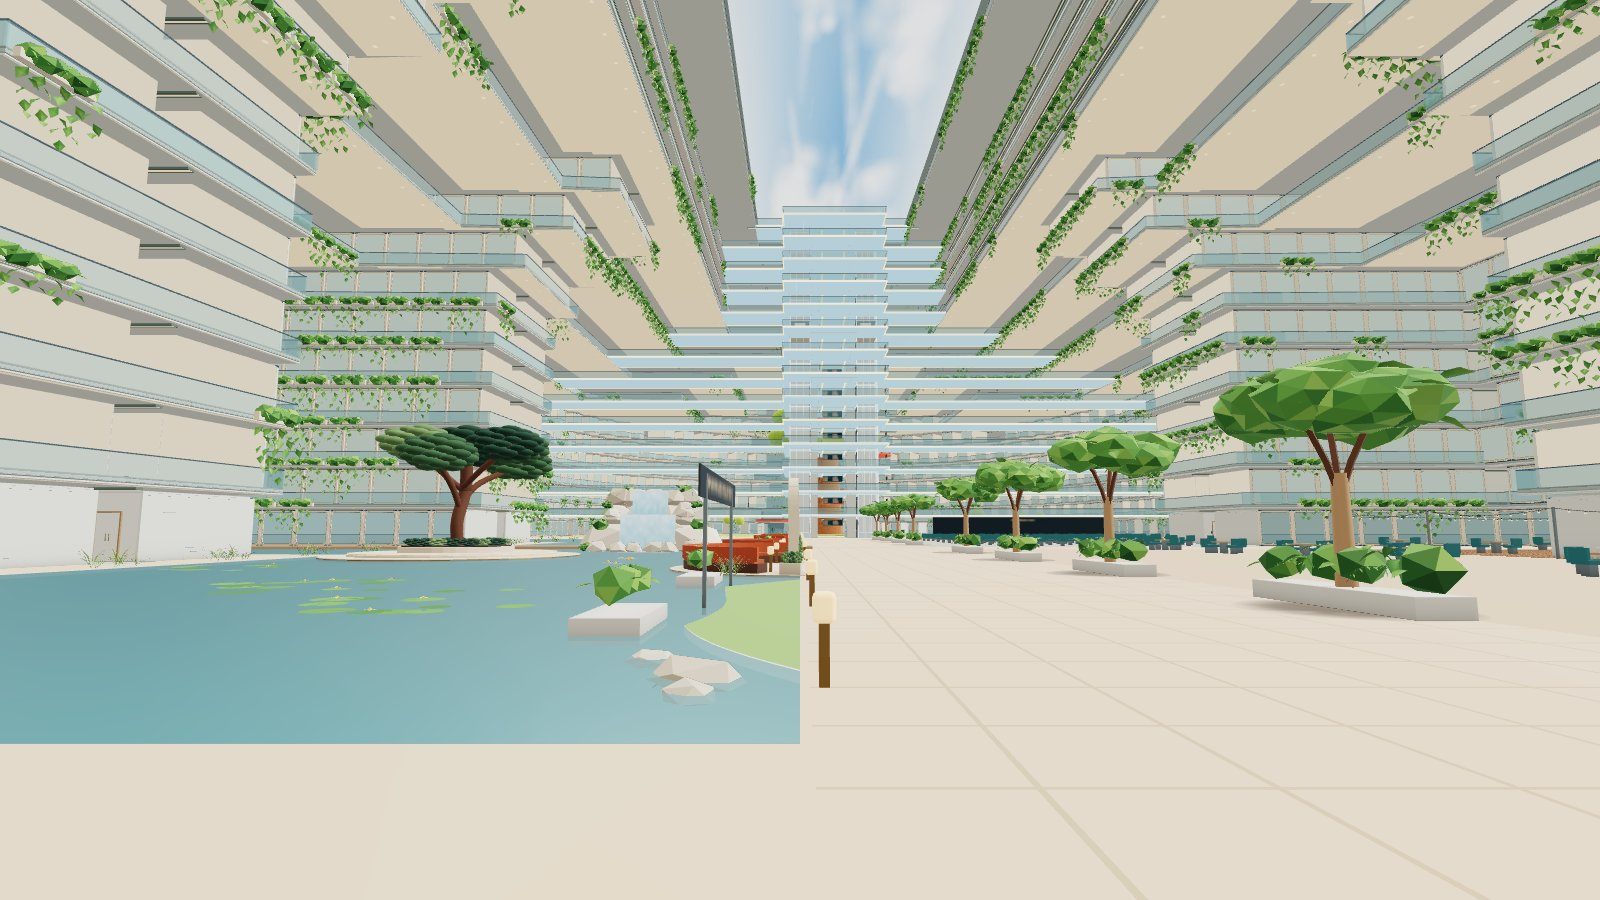
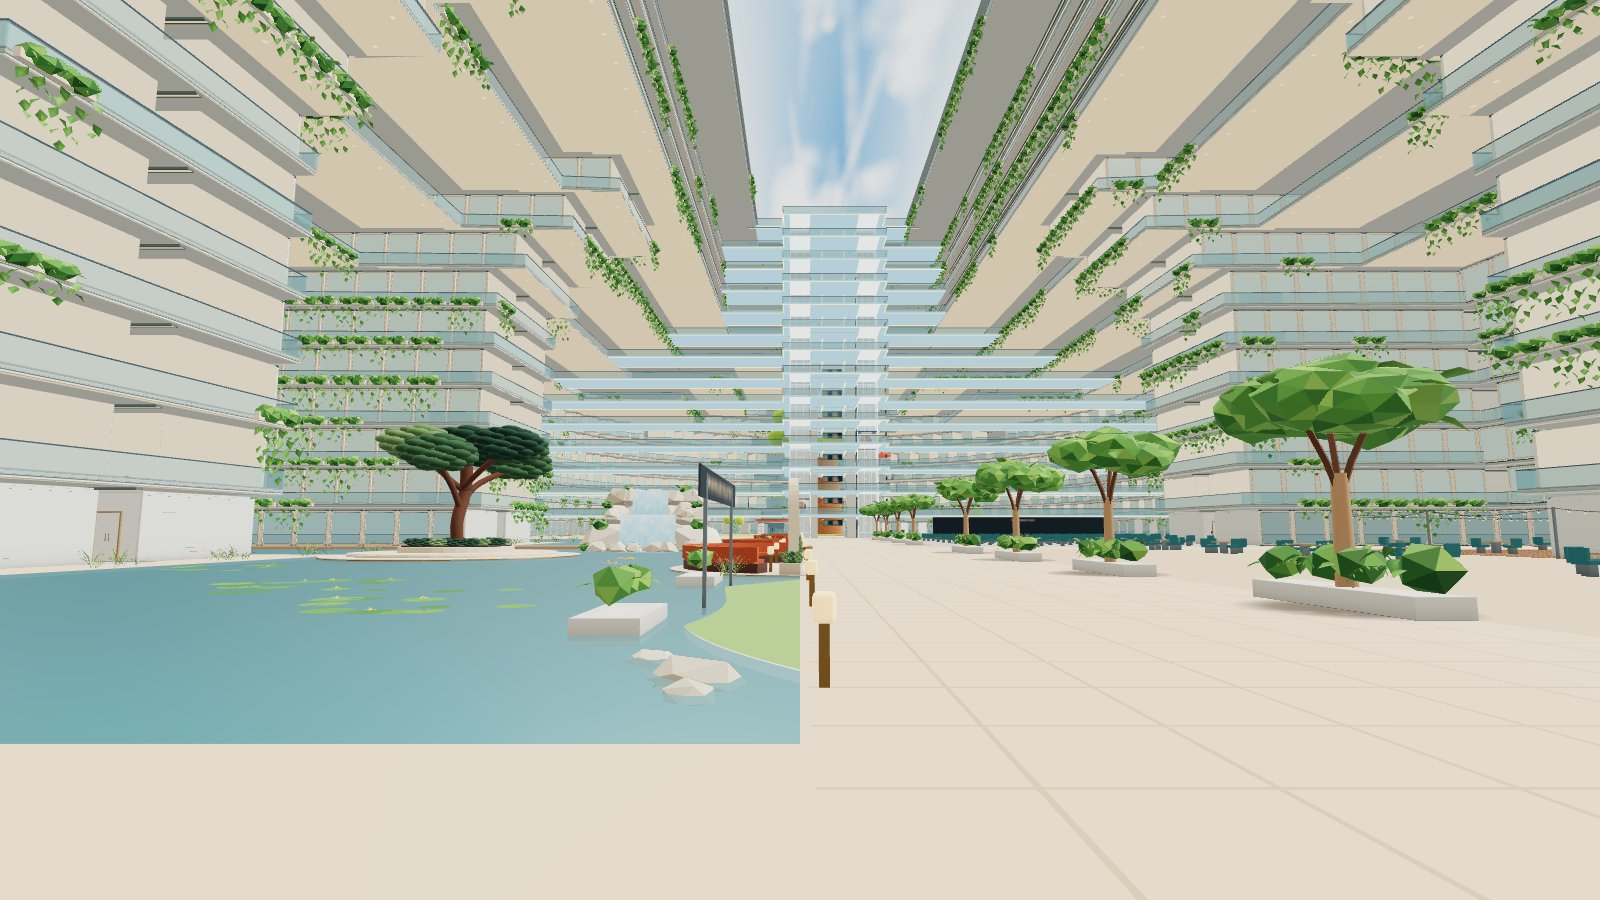
docs(atrium): lift tower refine pass 3 captures, costs and checks
- tower-near, hero and boulevard-aft before / concept / after from an r187 build of 8bca23a4.
- Draws unchanged (526 / 558 / 695). The tower copy goes from 103,038 to 103,782 triangles:
  shaft light lines and storey lights +408, shaft lanes +336.
- All seven checks pass on that build. The atrium PVS key is unchanged.
- Cabins: the parked cars at Deck 7 and Deck 10 are in view, but they don't glow like the concept's.
  That would need a change to the cars themselves, so it is explained in the README but not made.

Changed region(s): [[0.4688, 0.2178, 0.5625, 0.5289], [0.5938, 0.4667, 0.6562, 0.4978], [0.375, 0.4667, 0.4062, 0.4978]]

diff --git a/docs/atrium-areas/tower/README.md b/docs/atrium-areas/tower/README.md
@@ -9,7 +9,7 @@ Jay's pick for the Deck 6 forward lift tower ([`docs/atrium-areas.md`](../../atr
 ![before / after at hero and boulevard-aft](contact-before-after.jpg)
 
 *Before is the live site (`baseline-639f7393`); its tower is the same as base f8af5b3a's. After is a local build of
-this branch (d3dcace3), captured with `scripts/capture-atrium-areas.mjs`. Both render with three 0.187.0. Local builds
+this branch (8bca23a4, refine pass 3), captured with `scripts/capture-atrium-areas.mjs`. Both render with three 0.187.0. Local builds
 that bundle three 0.185.1 (a stale `node_modules`) render the atrium much darker and warmer than live, so don't judge
 colour on them.*
 
@@ -18,10 +18,15 @@ colour on them.*
 All of this is in the facade's merged copy of the tower (`atrium-architecture.js`) and the walk's lift cars. The walked
 tops keep their finish.
 
-- **Glass-blue bands with white edges.** The bridge and landing undersides are glass-blue (`80b2cc`) and their fascias
-  white (vertex colours; `TOWER_SLAB_FACES`, `src/v2/model.js`). Both are shaded as if they faced up. Shaded truly, a
-  face looking down takes the hemisphere's ground colour and the lower environment, so the concept's pale glass-blue
-  reads steel grey.
+- **Glass-blue bands with slim edges.** The bridge and landing undersides and their fascias are glass-blue (`80b2cc`),
+  so a slab's edge recedes and reads as the warm line under it (vertex colours; `TOWER_SLAB_FACES`,
+  `src/v2/model.js`). Both are shaded as if they faced up. Shaded truly, a face looking down takes the hemisphere's
+  ground colour and the lower environment, so the concept's pale glass-blue reads steel grey.
+- **One glass column through the landings.** A pale lane (`e6f3f8`) runs under each landing above Deck 6, from its aft
+  edge to each forward shaft and as wide as the shaft (`towerShaftLanes`, `src/v2/model.js`). Stacked, the lanes carry
+  the shafts down through the landings as one light column. A warm light line runs the full height of both aft corners
+  of each forward shaft, and a small warm light sits in the middle bay of each shaft's fore face at every storey from
+  Deck 6 up (`towerFrame`, `src/transit.js`).
 - **A warm golden line under every level.** A light strip (20 x 10 cm, hanging 8 cm below the slab) runs under both
   long edges of every bridge above Deck 6, over the open atrium. It also runs along each landing's aft edge and its
   returns to the bridges, so the line crosses the tower unbroken (`towerBridgeLights`, `src/v2/model.js`). It shares the
@@ -33,7 +38,10 @@ tops keep their finish.
   walker's feet. The glass, frit and frame are shaded as if they faced up too (`towerLit`): their faces looking aft at
   the atrium sit in the sun's shade and read grey.
 - **Lit cabins.** The forward cars' walls are warm-lit, and their aft wall is glass, so the atrium sees into them and
-  the Mars art faces out (`src/walk/lift-ride.js` and twins).
+  the Mars art faces out (`src/walk/lift-ride.js` and twins). The forward cars now start at Deck 7 (port) and Deck 10
+  (starboard) instead of Deck 15 (`parked`, `src/walk/lifts.js`). `parked` only sets where a car starts, on the page
+  alone or on the server at start. A car stays wherever it last stopped, so ride logic and how calls are served are
+  unchanged.
 - **Unchanged:**
   - The bridges' glass balustrades. They are the walk's shared void guards, used ship-wide.
   - Bridge and landing geometry and colliders, the tower footprint and height.
@@ -43,36 +51,46 @@ tops keep their finish.
 - The concept draws one slim glass prism with paper-thin bridges. The real landings (24 m deep) and bridges stay, as
   asked, so from the floor each landing's underside hides most of the shaft above it. The framed glass shafts read on
   the lower decks and from hero, where the tower now reads as a glass column.
-- No lit cabin is in these shots. Both forward cars park at Deck 15, behind the slabs, and even called down to Decks 8
-  and 11 they barely show from the floor. Parking them lower would change how the lifts behave, so it isn't done here.
+- The cabins are in view but don't glow like the concept's.
+  - **What shows.** The port car at Deck 7 shows from tower-near and hero. From tower-near, the starboard car at Deck 10
+    is hidden behind its own landing except its top 0.7 m; it shows from hero. Each landing reaches 7.6 m aft of its
+    shaft, so from the floor only cabins on the lowest decks show whole.
+  - **Why they don't glow.** From the atrium you see through the glass aft wall to the Mars art on the fore wall, and
+    the warm side walls are edge-on. The warm panels tone-map to near white. A tuning run with saturated amber panels
+    (`e0a868`, emissive `ff9a40`) made no visible difference from the floor.
+  - **What it would take.** A glowing cabin needs a change to the cars, not to where they park: a warm lit fore wall in
+    place of the Mars art, or a lit frame round the car. Riders would see either, so neither is done here.
 - The concept's warm lines also run along every balcony edge. Those belong to the balcony glow (atrium-light), not here.
 
 ## Cost and safety
 
 | View | Draws before -> after | Triangles before -> after |
 | --- | --- | --- |
-| tower-near | 526 -> 526 | 10,908,530 -> 10,914,170 |
-| hero | 558 -> 558 | 10,760,649 -> 10,766,289 |
-| boulevard-aft | 695 -> 695 | 10,813,357 -> 10,818,997 |
+| tower-near | 526 -> 526 | 10,908,530 -> 10,914,914 |
+| hero | 558 -> 558 | 10,760,649 -> 10,767,033 |
+| boulevard-aft | 695 -> 695 | 10,813,357 -> 10,819,741 |
 
 These are the main pass at each view's pose, measured with `renderer.info` on the review walk of local builds of base
 f8af5b3a and this branch ([`metrics-before.json`](metrics-before.json), [`metrics-after.json`](metrics-after.json)).
-The tower copy stays at 21 draws. Its triangles grow from 97,398 to 103,038 (+5,640):
+The tower copy stays at 21 draws. Its triangles grow from 97,398 to 103,782 (+6,384):
 
 | Change | Triangles |
 | --- | --- |
 | Shaft frame (mullions and transoms) | +3,024 |
 | Frosted frit bands | +1,440 |
 | Light strips (bridges, landing edges, returns) | +1,176 |
+| Shaft light lines and storey lights (pass 3) | +408 |
+| Shaft lanes under the landings (pass 3) | +336 |
 
 - **No new draws.** Every addition joins a bucket the tower copy already draws:
   - the frame joins the guide columns;
   - the frit joins the frosted shaft glass;
   - the clear shaft glass joins the aft back glass;
-  - the strips join the lift lobbies' lights;
-  - the fascia and underside tones are vertex colours and normals only.
+  - the strips and the shaft light lines join the lift lobbies' lights;
+  - the shaft lanes join the landings;
+  - the fascia, underside and lane tones are vertex colours and normals only.
 
-  The cars only swap materials.
+  The cars only swap materials and start decks.
 - **Collision is unchanged.** Every addition is `noCollide`. The atrium PVS key is unchanged (`4.1485ebc6…`, the same
   as base), so no re-bake is needed.
 - **Distant and phone copies stay Basic.** They take the same vertex colours, so the undersides are glass-blue there
@@ -80,7 +98,7 @@ The tower copy stays at 21 draws. Its triangles grow from 97,398 to 103,038 (+5,
 - **Void.** Everything added sits inside the tower, landing and bridge footprints; nothing new crosses the void above
   Deck 16.
 
-## Checks (on the after build, d3dcace3, three 0.187.0)
+## Checks (on the after build, 8bca23a4, three 0.187.0)
 
 | Check | Result |
 | --- | --- |
